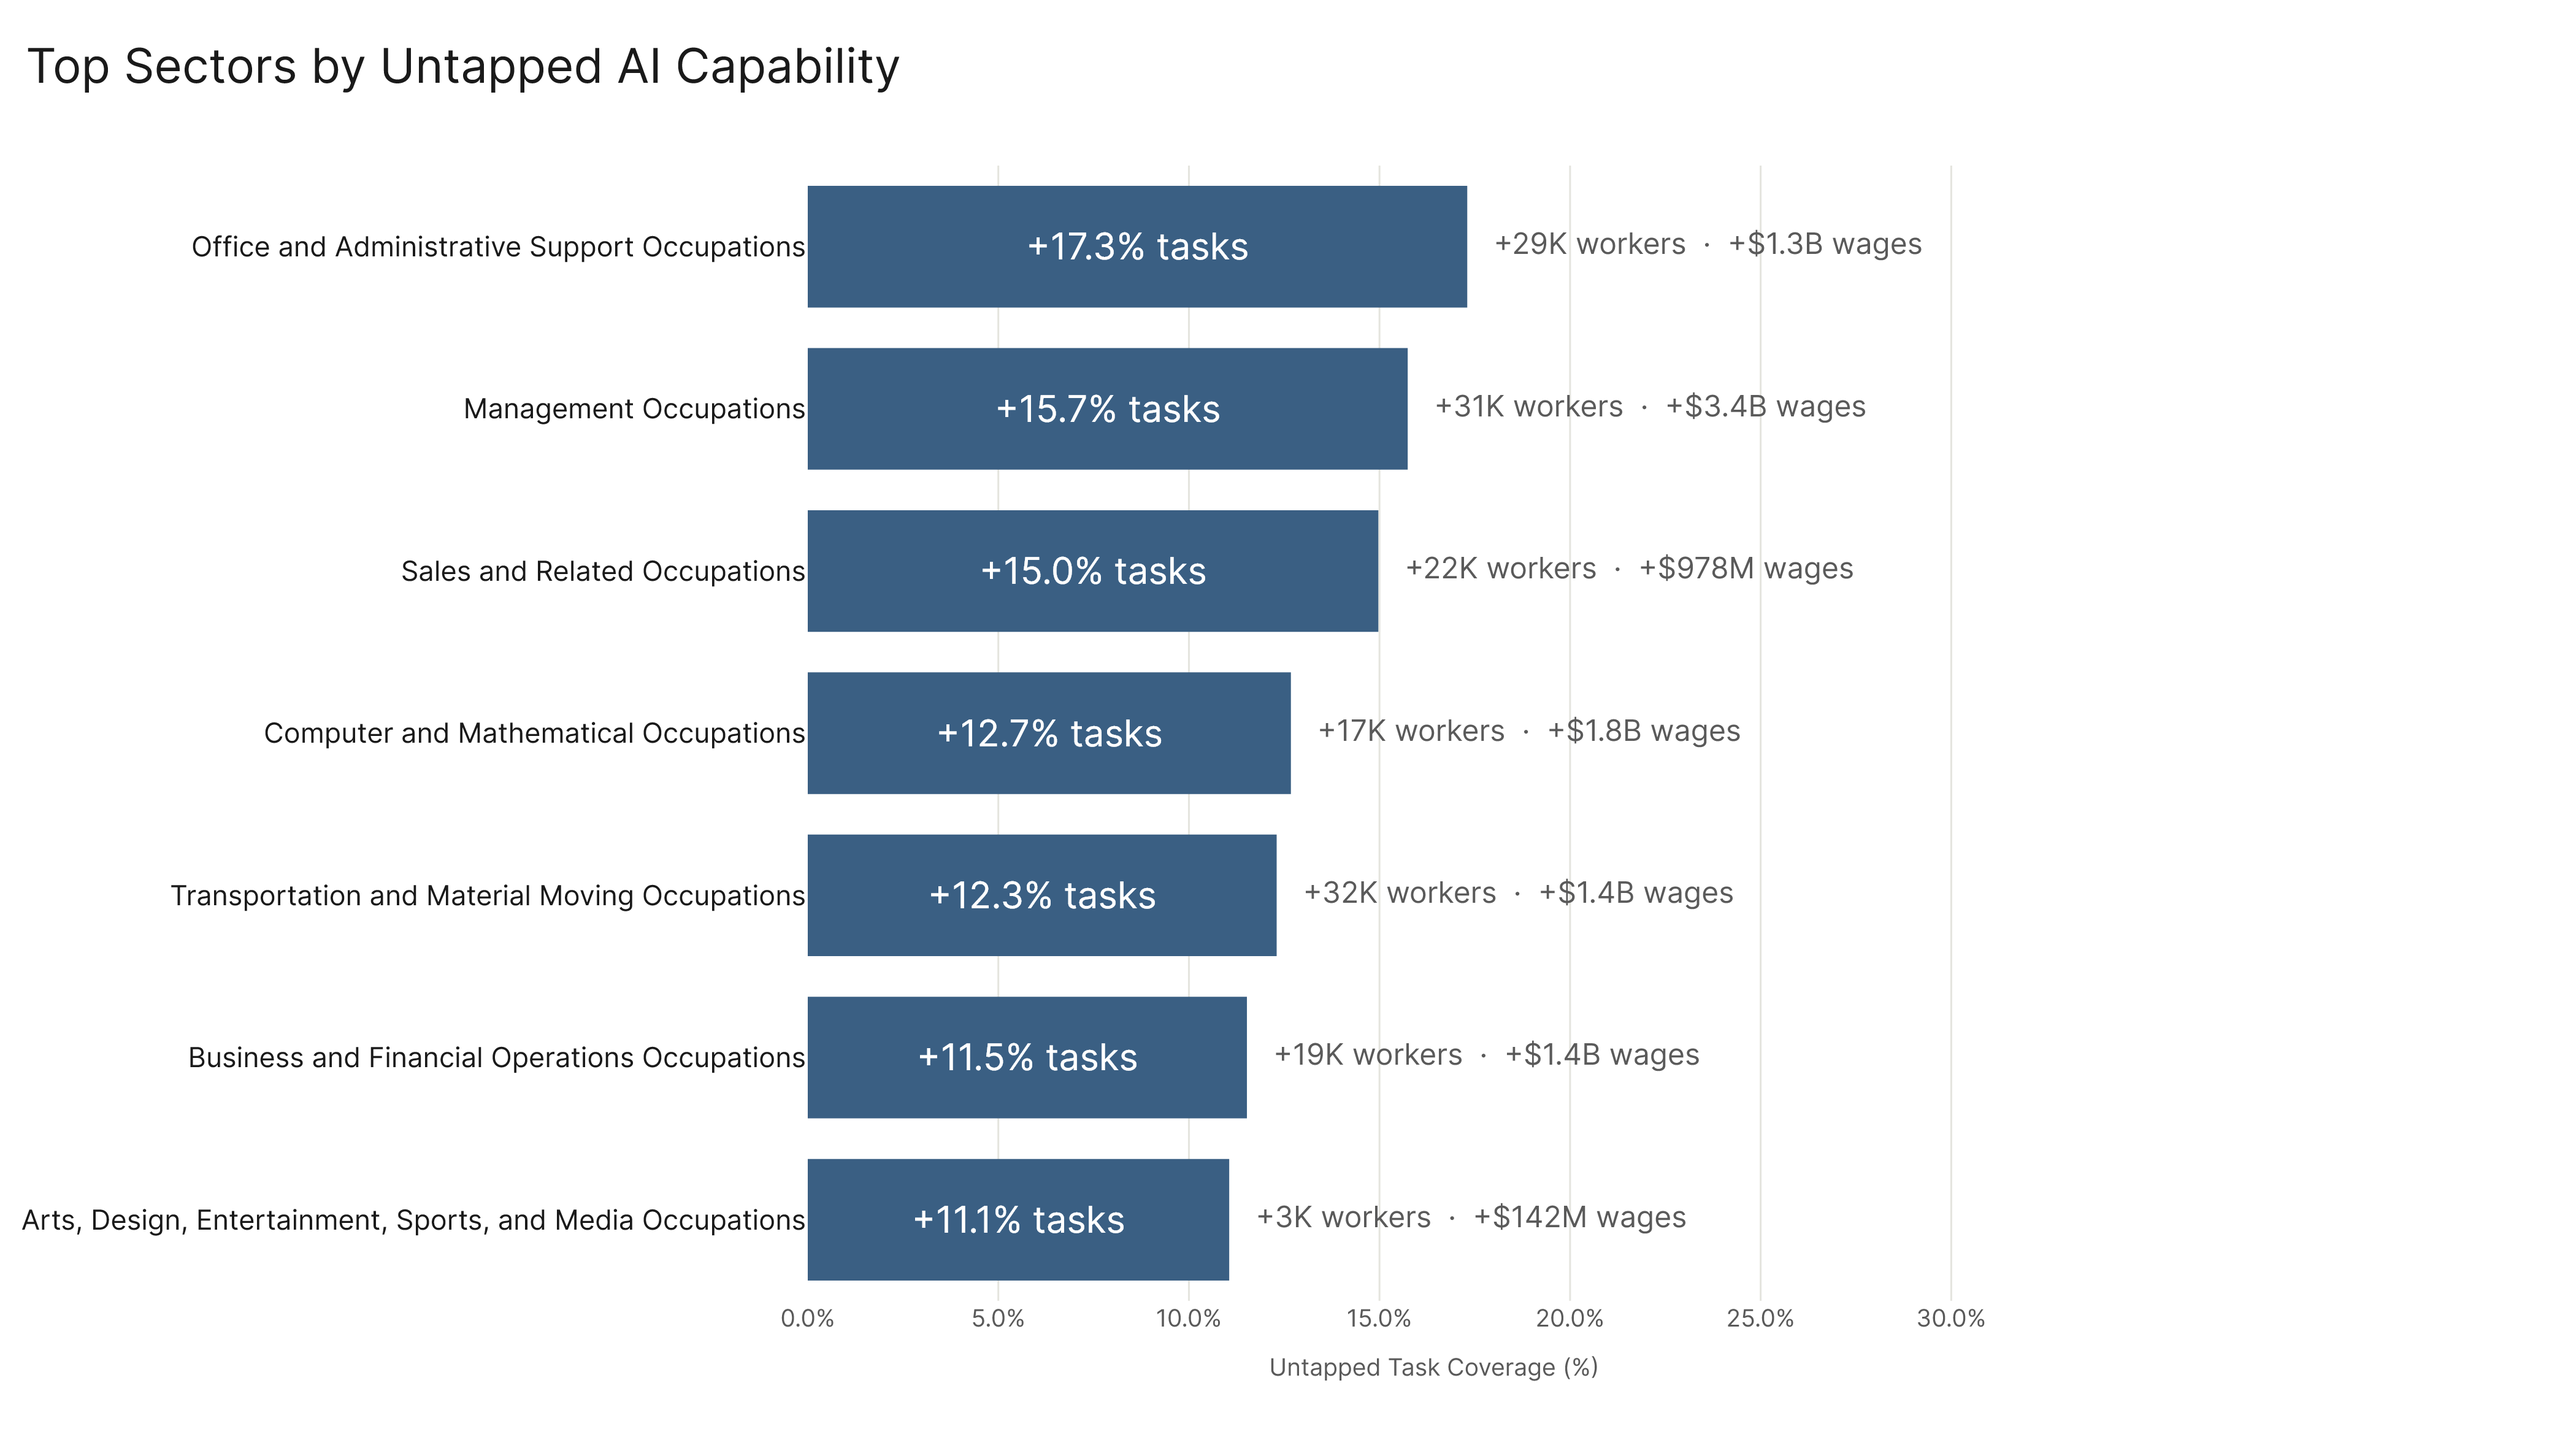
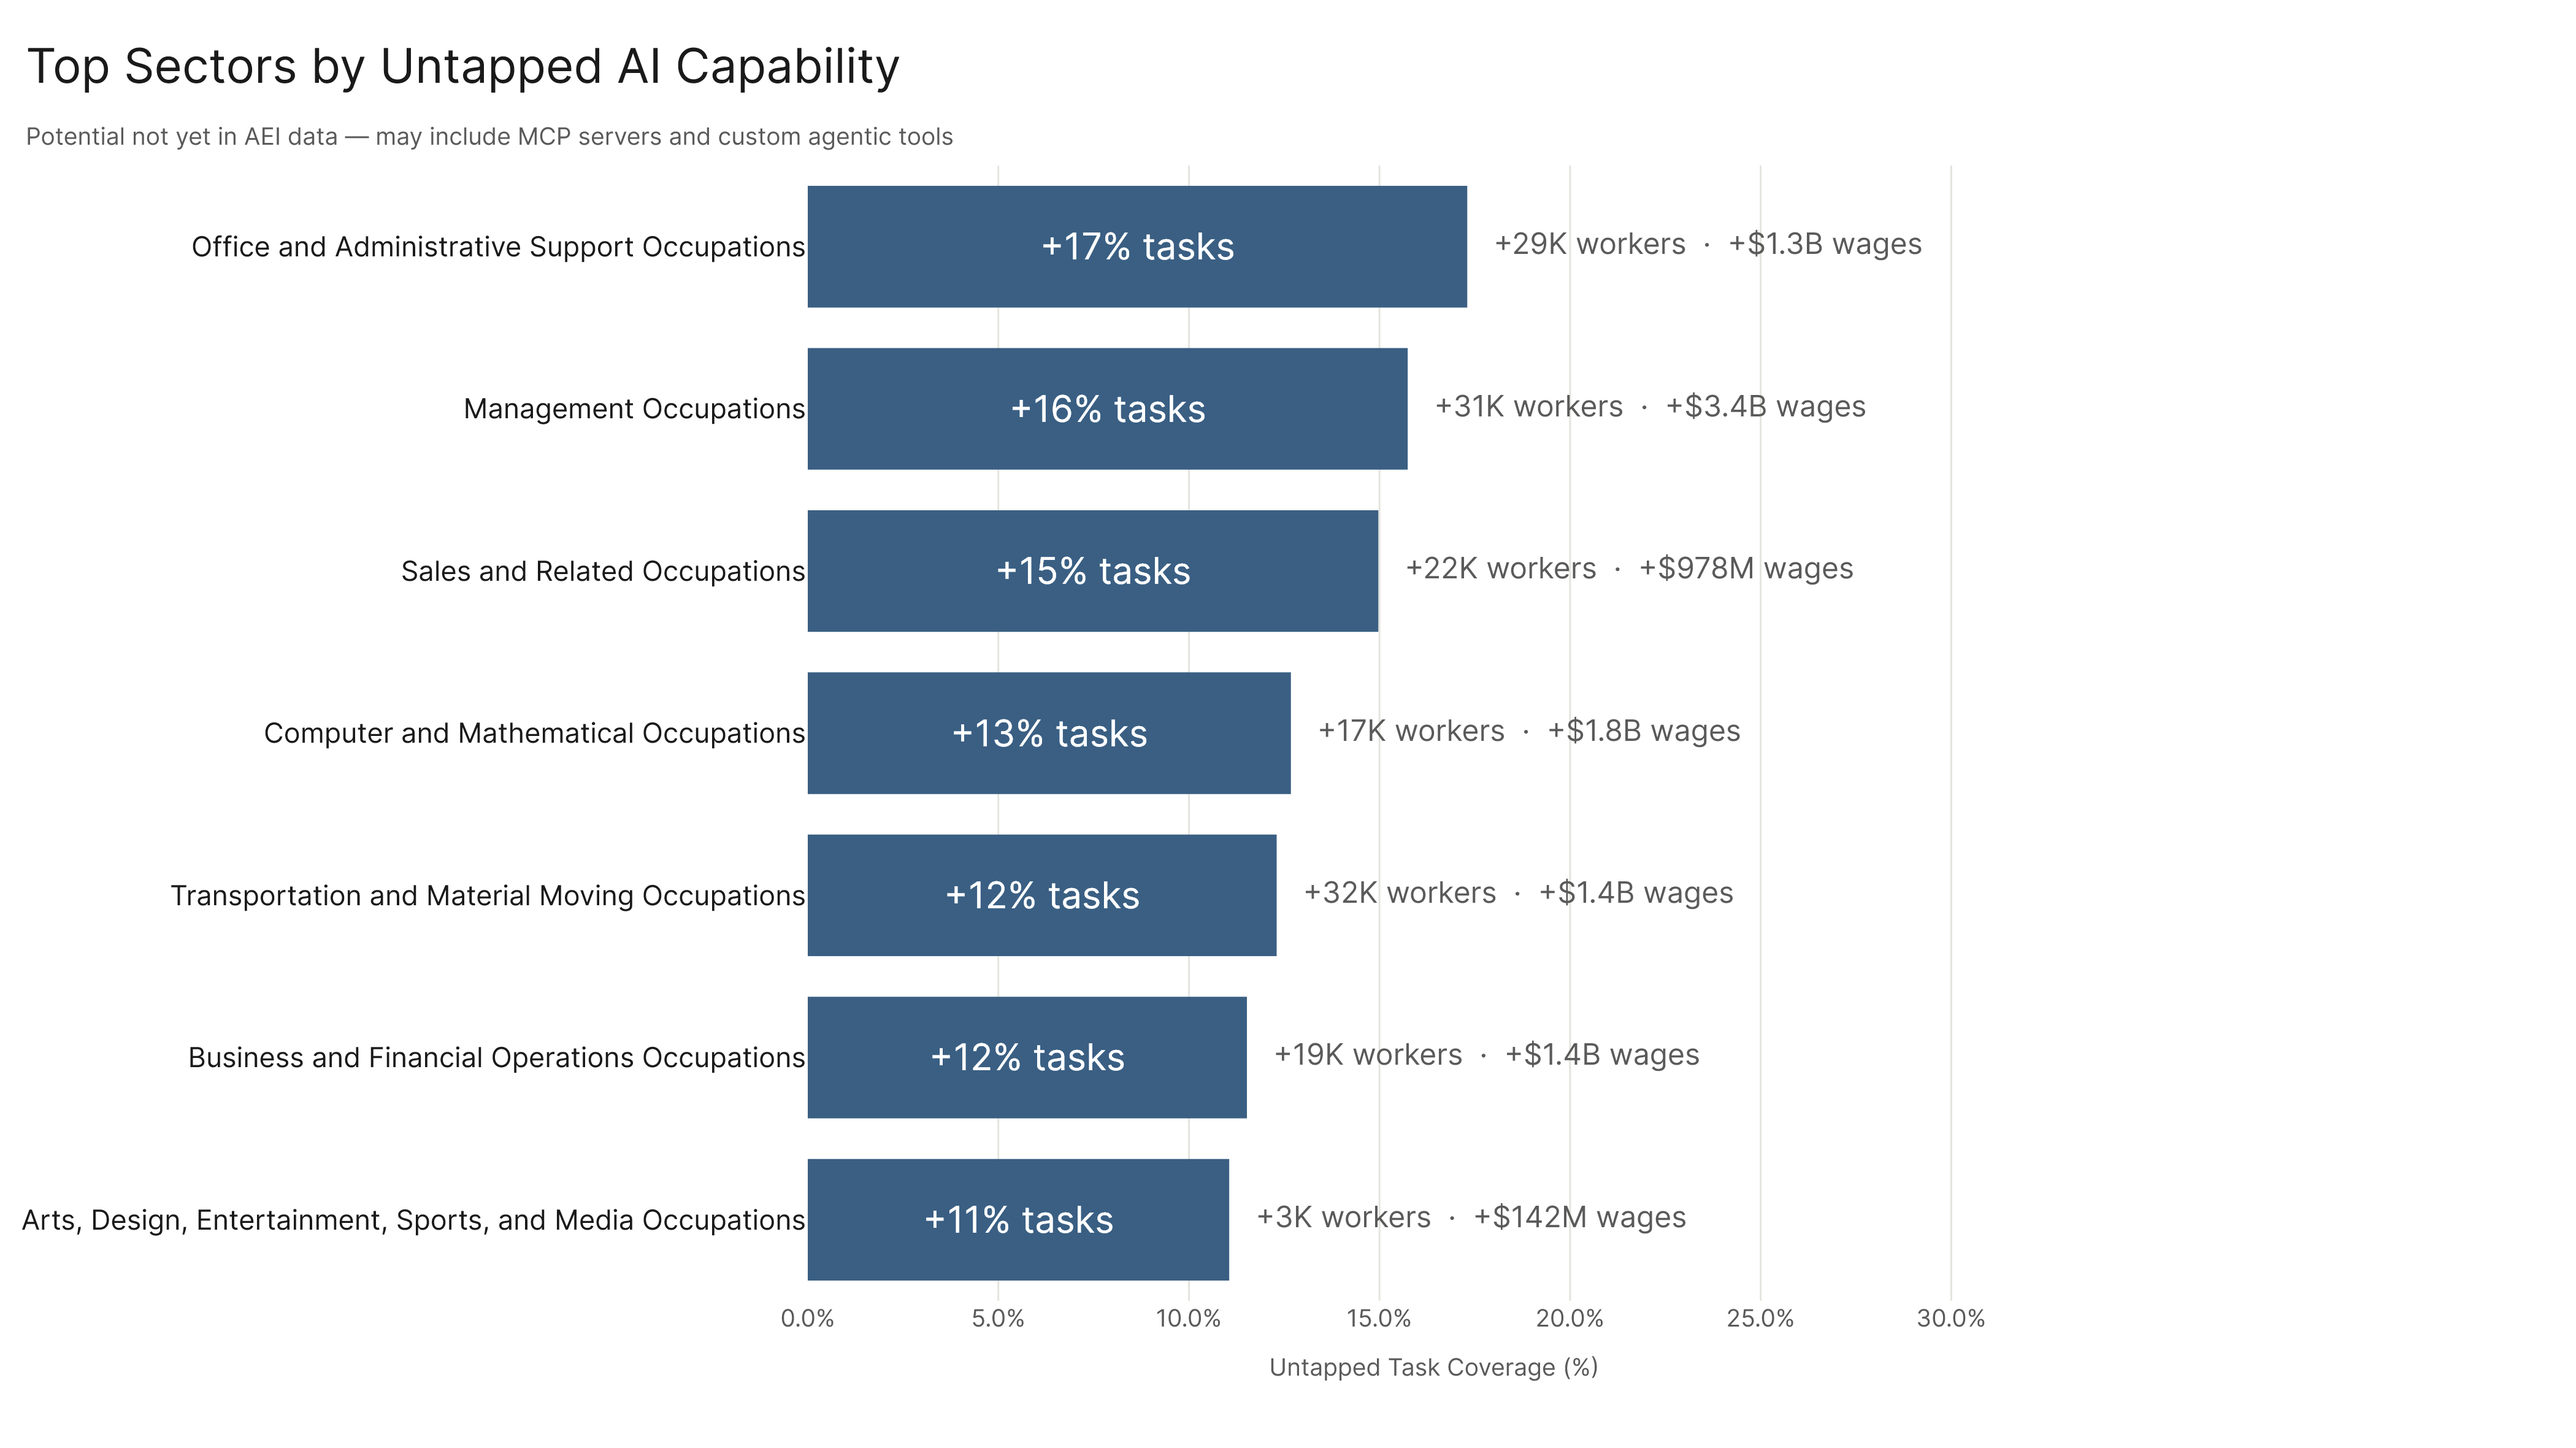
workforce_meeting_v2: add subtitles and fix decimal format on charts 05 and 06
- Charts 05 & 06: subtitle "Potential not yet in AEI data — may include MCP servers and custom agentic tools"
- Charts 05 & 06: gap_pct format :.1f → :.0f to match whole-number style of other charts

diff --git a/analysis/questions/workforce_meeting_v2/run.py b/analysis/questions/workforce_meeting_v2/run.py
@@ -185,14 +185,15 @@ def _apply_base_style(
     fig: go.Figure,
     title: str,
     *,
+    subtitle: str | None = None,
     height: int = CHART_H,
     width: int = CHART_W,
     show_legend: bool = False,
 ) -> go.Figure:
-    """Apply v2 base styling: large title, no subtitle, tight margins."""
+    """Apply v2 base styling: large title, optional subtitle, tight margins."""
     style_figure(
         fig, title,
-        subtitle=None,
+        subtitle=subtitle,
         show_legend=show_legend,
         height=height,
         width=width,
@@ -213,6 +214,7 @@ def _annotated_bar(
     outside_text: list[str],
     title: str,
     *,
+    subtitle: str | None = None,
     color: str = BAR_COLOR,
     top_n: int = TOP_N,
     xaxis_tickformat: str = "~s",
@@ -267,7 +269,7 @@ def _annotated_bar(
         tickfont=dict(size=YAXIS_FS, color=COLORS["text"], family=FONT_FAMILY),
     )
 
-    _apply_base_style(fig, title)
+    _apply_base_style(fig, title, subtitle=subtitle)
 
     xaxis_cfg: dict = dict(
         showgrid=True,
@@ -432,7 +434,7 @@ def _chart_05_sector_gap(
         "gap_pct", ascending=False
     ).head(TOP_N).copy()
 
-    ins = [f"+{r['gap_pct']:.1f}% tasks" for _, r in df.iterrows()]
+    ins = [f"+{r['gap_pct']:.0f}% tasks" for _, r in df.iterrows()]
     out = [
         f"+{format_workers(r['gap_workers'])} workers  ·  {_sign_wages(r['gap_wages'])} wages"
         for _, r in df.iterrows()
@@ -441,6 +443,7 @@ def _chart_05_sector_gap(
         df, "category", "gap_pct",
         ins, out,
         "Top Sectors by Untapped AI Capability",
+        subtitle="Potential not yet in AEI data — may include MCP servers and custom agentic tools",
         xaxis_tickformat=".1f",
         xaxis_ticksuffix="%",
         xaxis_title="Untapped Task Coverage (%)",
@@ -466,7 +469,7 @@ def _chart_06_gwa_gap(
         "gap_pct", ascending=False
     ).head(TOP_N).copy()
 
-    ins = [f"+{r['gap_pct']:.1f}% tasks" for _, r in df.iterrows()]
+    ins = [f"+{r['gap_pct']:.0f}% tasks" for _, r in df.iterrows()]
     out = [
         f"+{format_workers(r['gap_workers'])} workers  ·  {_sign_wages(r['gap_wages'])} wages"
         for _, r in df.iterrows()
@@ -475,6 +478,7 @@ def _chart_06_gwa_gap(
         df, "category", "gap_pct",
         ins, out,
         "Top Work Activities by Untapped AI Capability",
+        subtitle="Potential not yet in AEI data — may include MCP servers and custom agentic tools",
         xaxis_tickformat=".1f",
         xaxis_ticksuffix="%",
         xaxis_title="Gap in % Tasks Affected",
